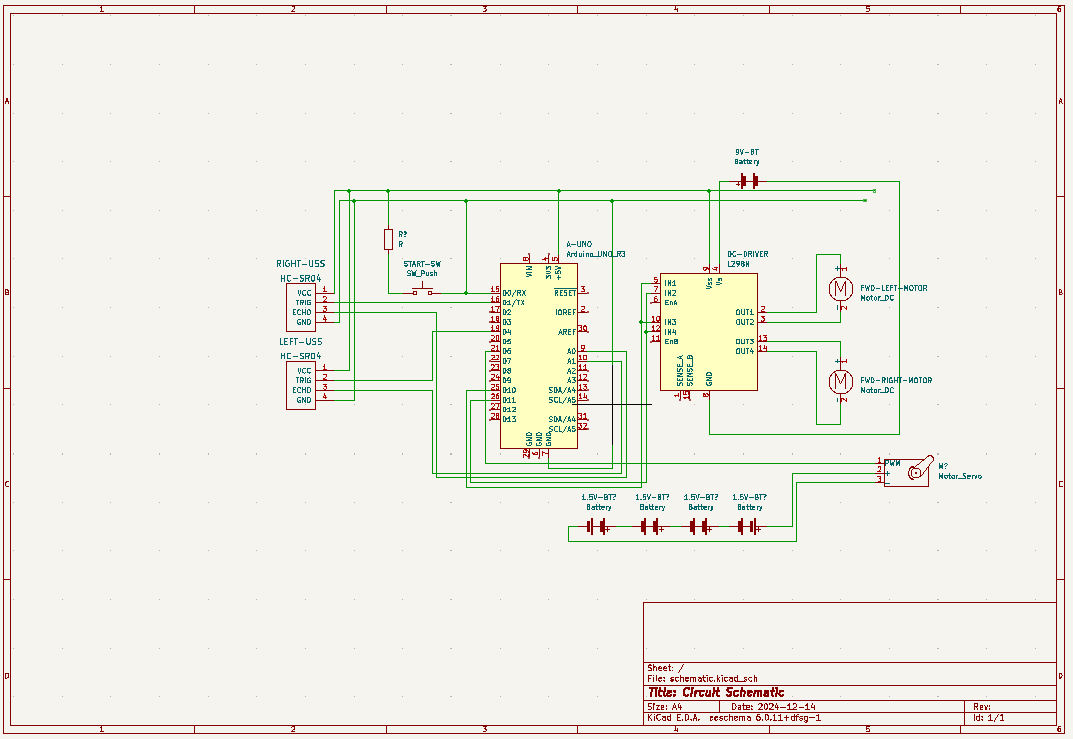
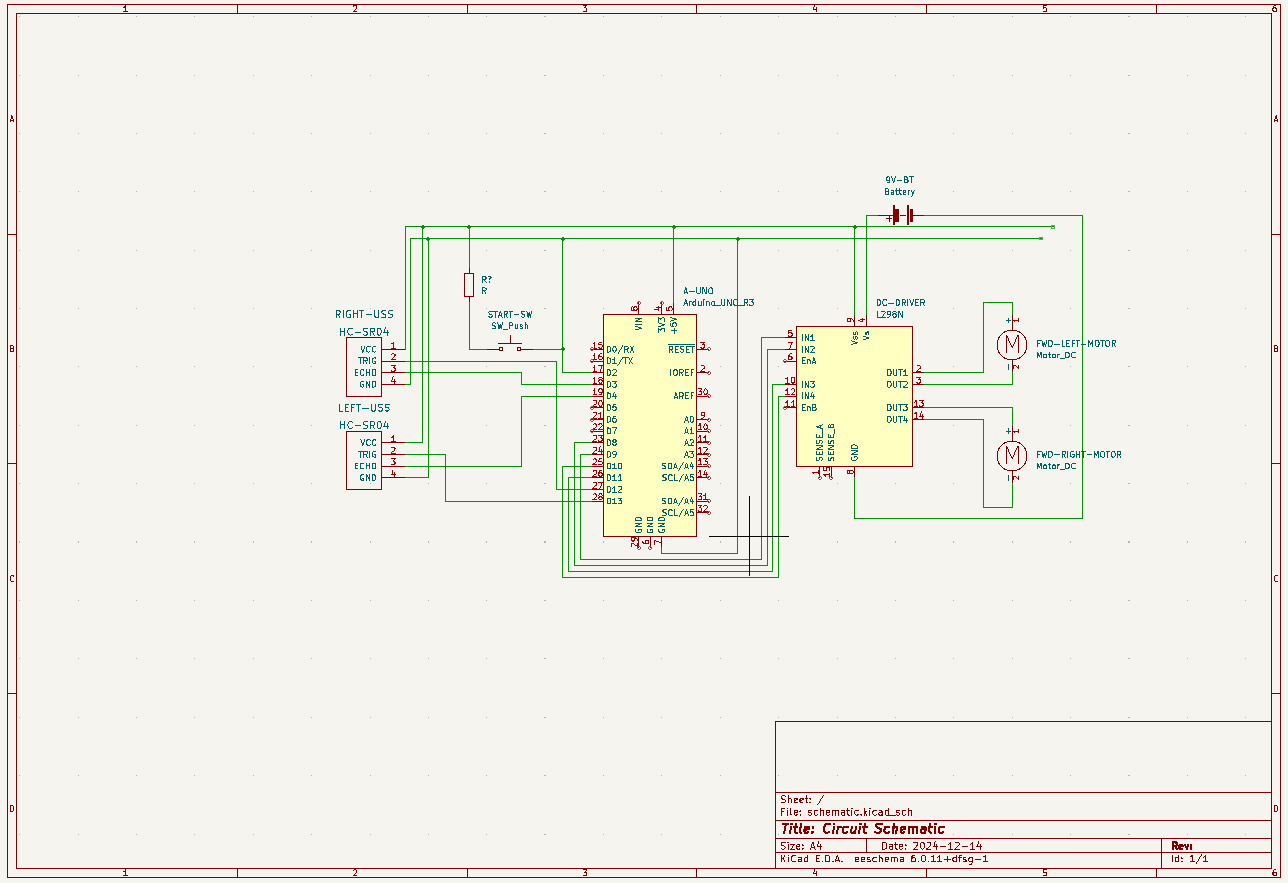
Updated schematic and start condition

Changed region(s): [[0.0, 0.0, 1.0, 0.9959], [0.246, 0.1867, 0.8611, 0.747], [0.7381, 0.6225, 0.8919, 0.6536]]

diff --git a/src/main.cpp b/src/main.cpp
@@ -2,17 +2,15 @@
 #include "pinmaps.h"
 
 float distanceLeft, distanceRight;
-volatile bool shouldPark = false;
 volatile uint32_t lastInterruptTime = 0, parkStartTime = 0;
 
 void handleStartButton() {
   uint32_t currentTime = millis();
 
-  if (currentTime - lastInterruptTime >= DEBOUNCE_DELAY) {
-    lastInterruptTime = currentTime;
-    shouldPark = !shouldPark;
-    parkStartTime = millis();
-  }
+  if (currentTime - lastInterruptTime < DEBOUNCE_DELAY) 
+    return;
+
+  lastInterruptTime = parkStartTime = currentTime;
 }
 
 void setup() {
@@ -56,10 +54,9 @@ void getDistances() {
 }
 
 void handleSteering() {
-  if (!shouldPark || parkStartTime < PARKING_COOLDOWN || min(distanceLeft, distanceRight) < STOPPING_DISTANCE) {
+  if (millis() - parkStartTime < PARKING_COOLDOWN || min(distanceLeft, distanceRight) < STOPPING_DISTANCE) {
     analogWrite(LEFT_MOTOR_POS, 0);
     analogWrite(RIGHT_MOTOR_POS, 0);
-    shouldPark = false;
     return;
   }
 
